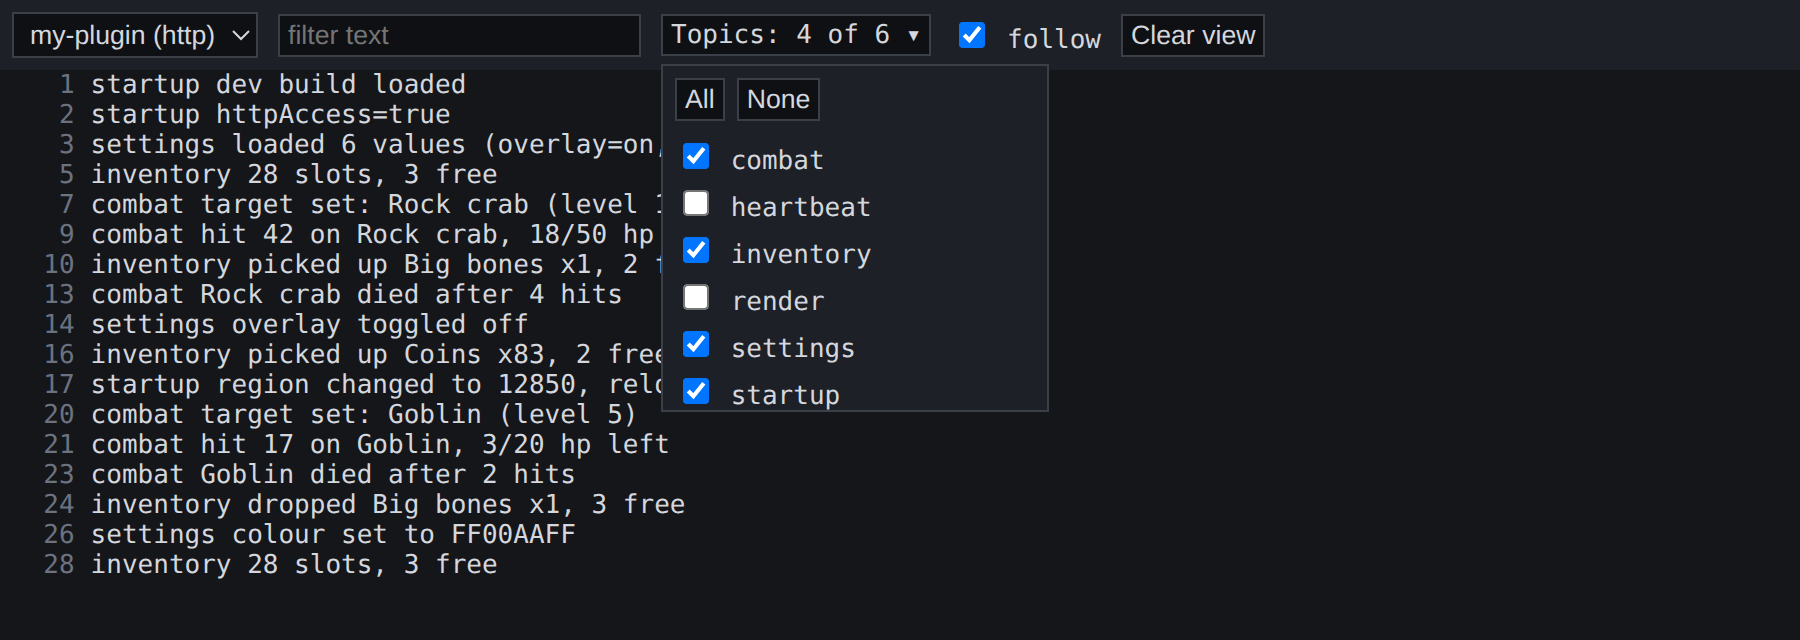
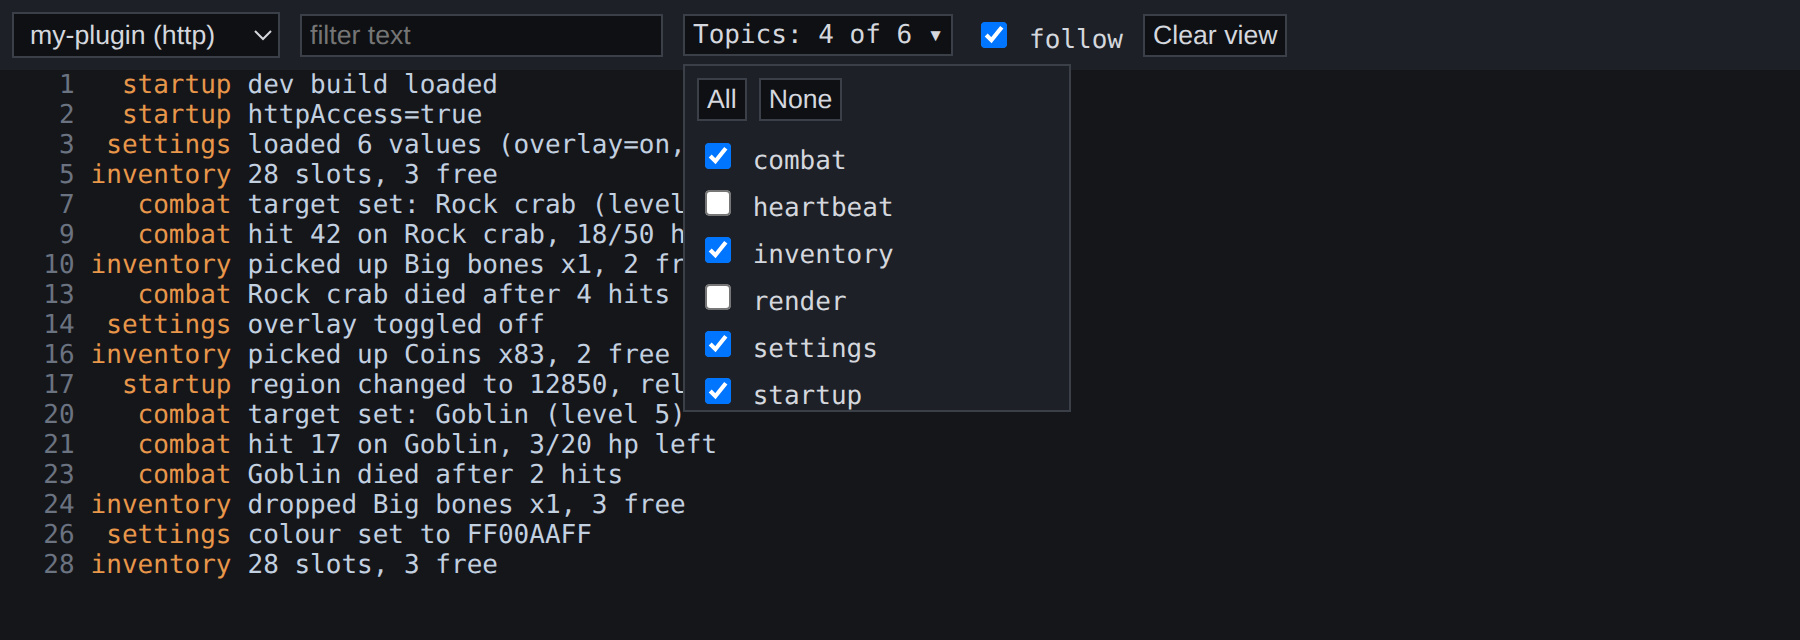
Viewer: topic and message columns
- Show each line as number | topic | message. The topic column is orange,
  right-aligned and as wide as the longest topic (up to 20 characters);
  longer topics are cut off with the full name on hover. Messages have their
  own colour and wrap within their column.
- Run one fetch at a time and drop a fetch that finishes after the plugin
  was switched, so lines no longer repeat, reorder or mix plugins.
- Retake the README screenshots.

diff --git a/tools/logviewer.html b/tools/logviewer.html
@@ -72,8 +72,9 @@
       white-space: nowrap;
     }
 
+    /* One log line: number, topic and message columns. Long messages wrap inside their own column. */
     #out div {
-      white-space: pre-wrap;
+      display: flex;
       padding: 0 6px;
     }
 
@@ -83,11 +84,32 @@
 
     /* Line number column: fixed width, so text lines up past line 9. */
     .n {
+      flex: none;
       display: inline-block;
       min-width: 4ch;
       text-align: right;
       color: #6b7280;
       margin-right: 8px;
+    }
+
+    /* Topic column: as wide as the longest topic (up to TOPIC_MAX), right-aligned, cut off with "…". */
+    .topic {
+      flex: none;
+      width: var(--topic-width, 8ch);
+      margin-right: 8px;
+      text-align: right;
+      color: #e8964a;
+      overflow: hidden;
+      text-overflow: ellipsis;
+      white-space: nowrap;
+    }
+
+    .msg {
+      flex: 1;
+      min-width: 0;
+      color: #c3d0e0;
+      white-space: pre-wrap;
+      overflow-wrap: anywhere;
     }
   </style>
 </head>
@@ -112,17 +134,20 @@
 
   <script>
     const MAX_LINES = 2000;
+    const TOPIC_MAX = 20; // widest the topic column gets, in characters
     const POLL_MS = 1500;
 
     const $ = id => document.getElementById(id);
-    const esc = s => s.replace(/[&<>]/g, c => ({ "&": "&amp;", "<": "&lt;", ">": "&gt;" }[c]));
-    // Every line starts with its topic.
+    const esc = s => s.replace(/[&<>"]/g, c => ({ "&": "&amp;", "<": "&lt;", ">": "&gt;", '"': "&quot;" }[c]));
+    // Every line is "<topic> <message>".
     const topicOf = line => line.split(" ")[0];
+    const messageOf = line => (line.indexOf(" ") < 0 ? "" : line.slice(line.indexOf(" ") + 1));
 
     let last = 0;          // highest line number received for the selected plugin
     let lines = [];        // [{n, line}], newest last
     const off = new Set(); // topics unticked by the user
     const seen = new Set(); // topics that have a checkbox
+    let widest = 0;         // longest topic seen, which sets the topic column's width
 
     function shown(l) {
       const filter = $("filter").value.toLowerCase();
@@ -132,7 +157,11 @@
     function render() {
       $("out").innerHTML = lines
         .filter(shown)
-        .map(l => `<div><span class="n">${l.n}</span>${esc(l.line)}</div>`)
+        .map(l => {
+          const topic = esc(topicOf(l.line));
+          return `<div><span class="n">${l.n}</span><span class="topic" title="${topic}">${topic}</span>`
+            + `<span class="msg">${esc(messageOf(l.line))}</span></div>`;
+        })
         .join("");
       if ($("follow").checked) scrollTo(0, document.body.scrollHeight);
     }
@@ -151,6 +180,8 @@
     function addTopic(topic) {
       if (seen.has(topic)) return;
       seen.add(topic);
+      widest = Math.max(widest, topic.length);
+      document.documentElement.style.setProperty("--topic-width", `${Math.min(widest, TOPIC_MAX)}ch`);
       const label = document.createElement("label");
       label.dataset.topic = topic;
       label.innerHTML = `<input type="checkbox" checked> ${esc(topic)}`;
@@ -173,11 +204,18 @@
       render();
     }
 
-    // Fetches lines newer than `last` for the selected plugin.
+    // Fetches lines newer than `last` for the selected plugin. One fetch at a time, and a fetch that
+    // finishes after the plugin was switched is dropped, so lines never mix, repeat or reorder.
+    let polling = false;
+    let generation = 0; // bumped on every plugin switch
     async function poll() {
+      if (polling) return;
+      polling = true;
+      const started = generation;
       try {
         const plugin = encodeURIComponent($("plugin").value);
         const fresh = await (await fetch(`/api/logs?plugin=${plugin}&after=${last}`)).json();
+        if (started !== generation) return;
         for (const l of fresh) {
           lines.push(l);
           last = l.n;
@@ -187,6 +225,8 @@
         if (fresh.length) render();
       } catch (e) {
         // Server restarting or briefly unreachable: try again on the next poll.
+      } finally {
+        polling = false;
       }
     }
 
@@ -204,10 +244,12 @@
     }
 
     $("plugin").onchange = () => {
+      generation++;
       last = 0;
       lines = [];
       seen.clear();
       off.clear();
+      widest = 0;
       $("topics").innerHTML = "";
       updateTopicsSummary();
       render();
